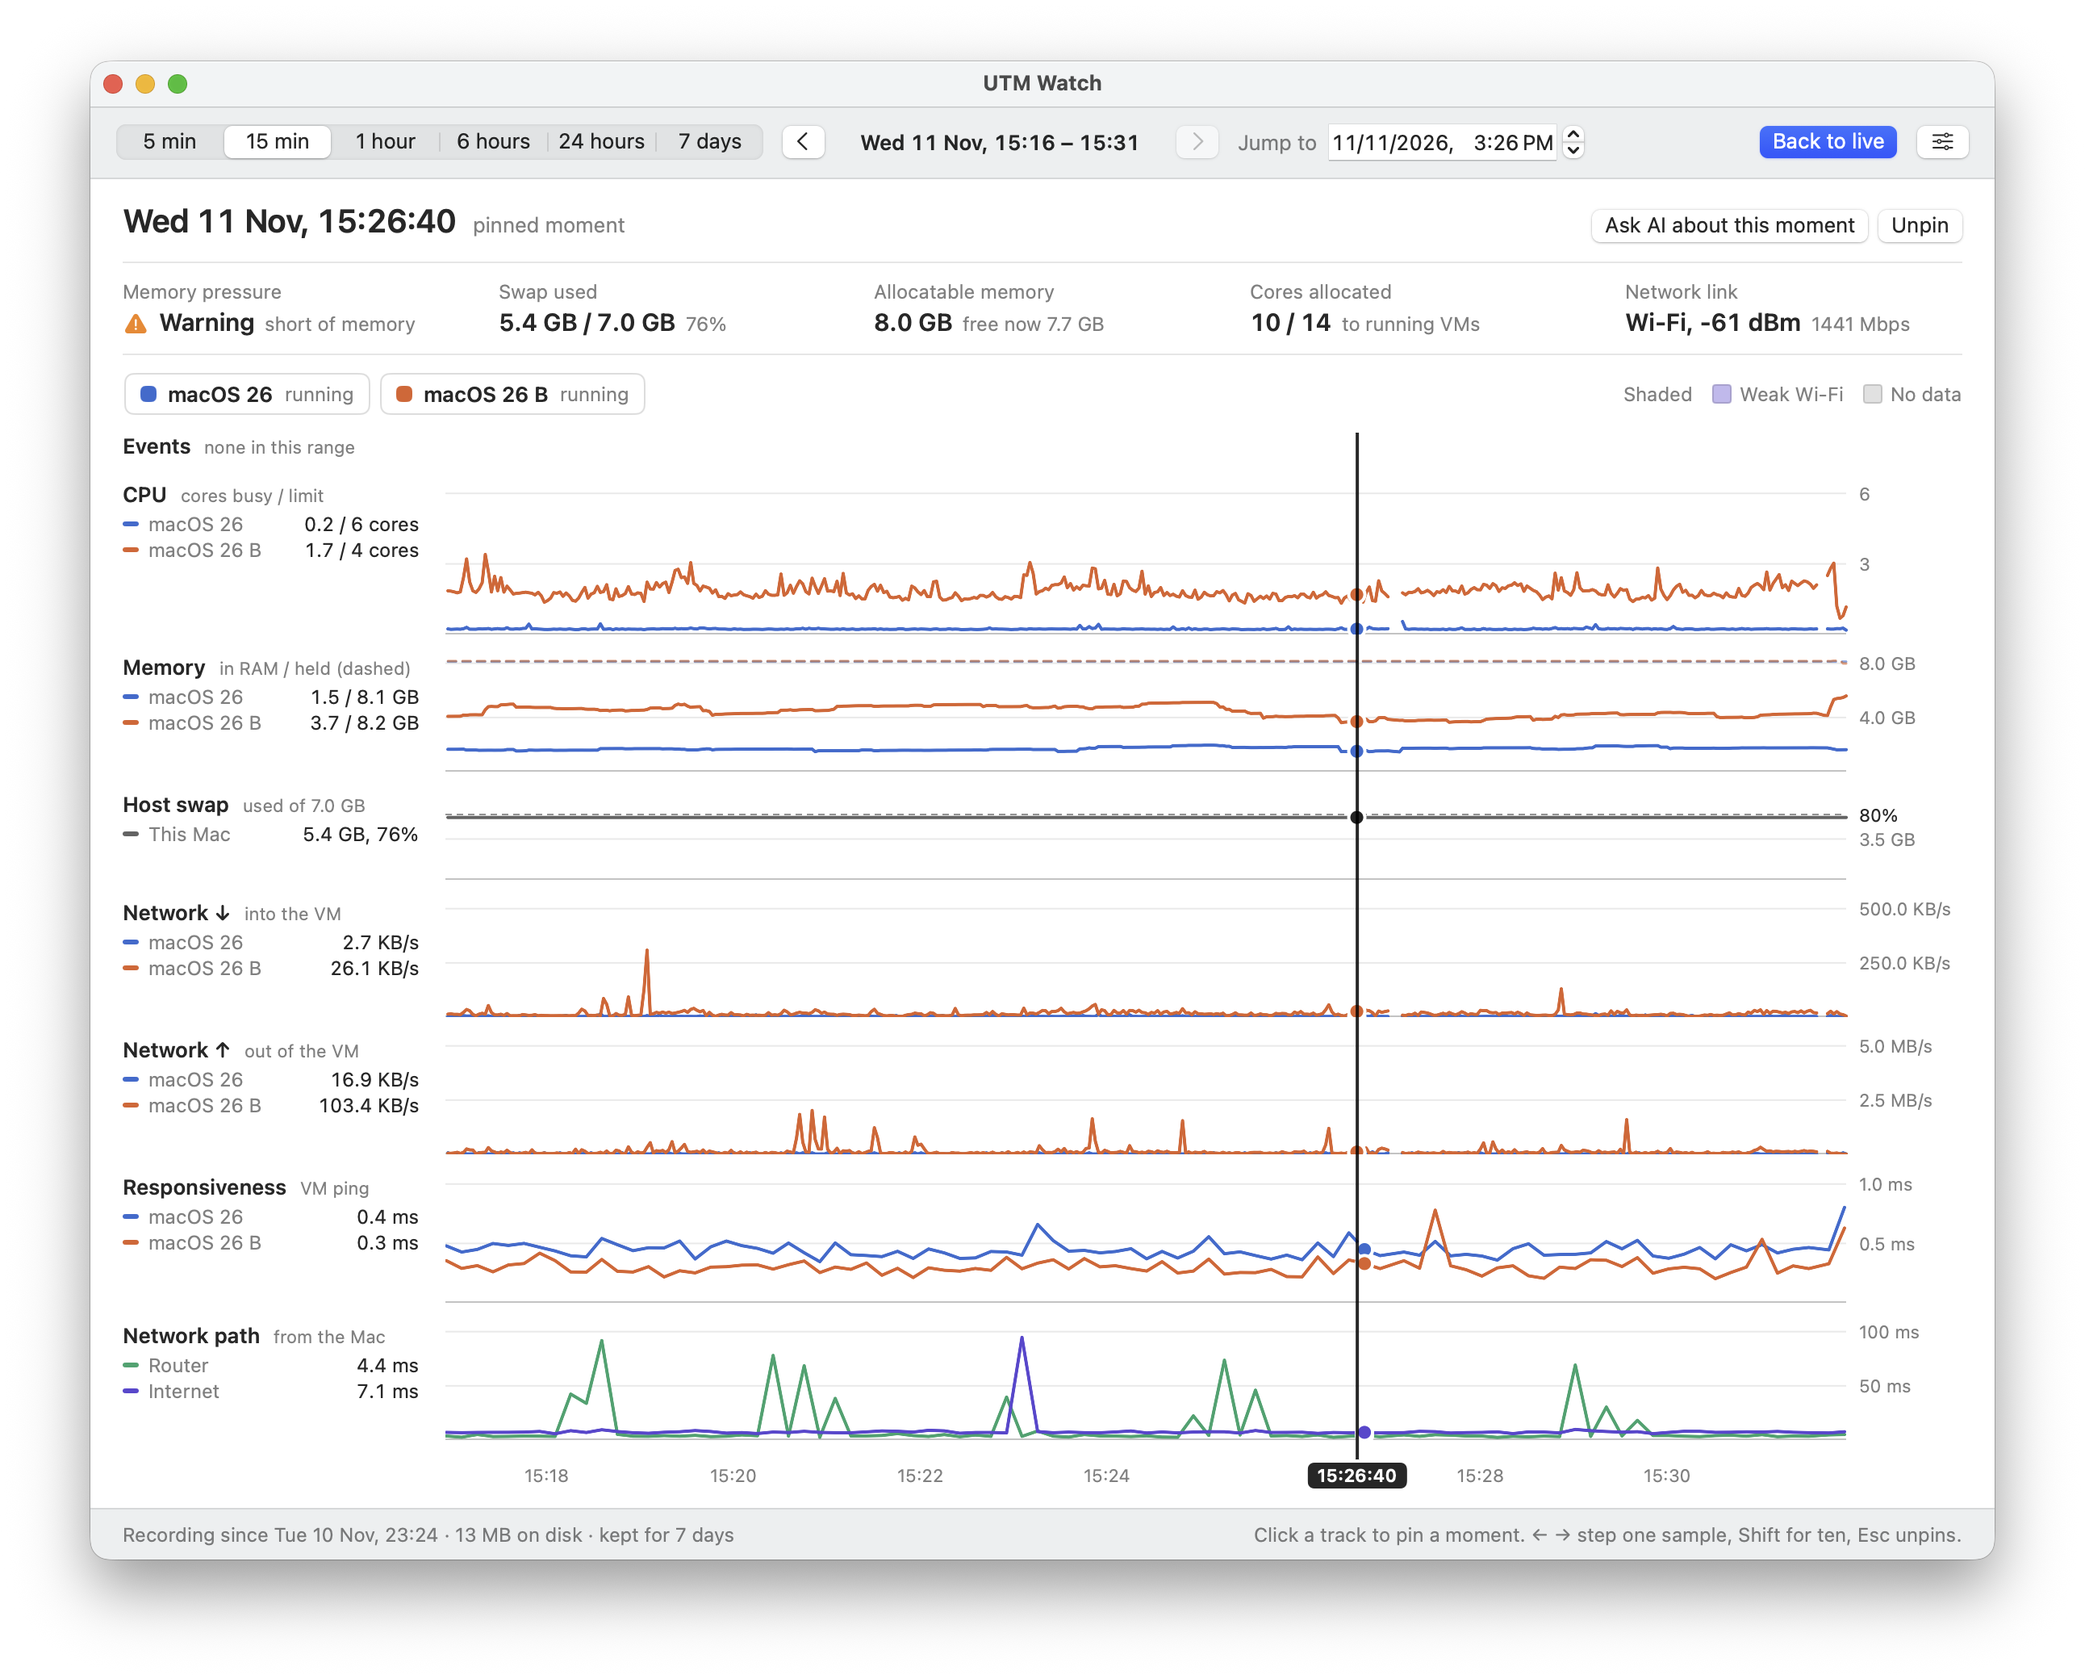
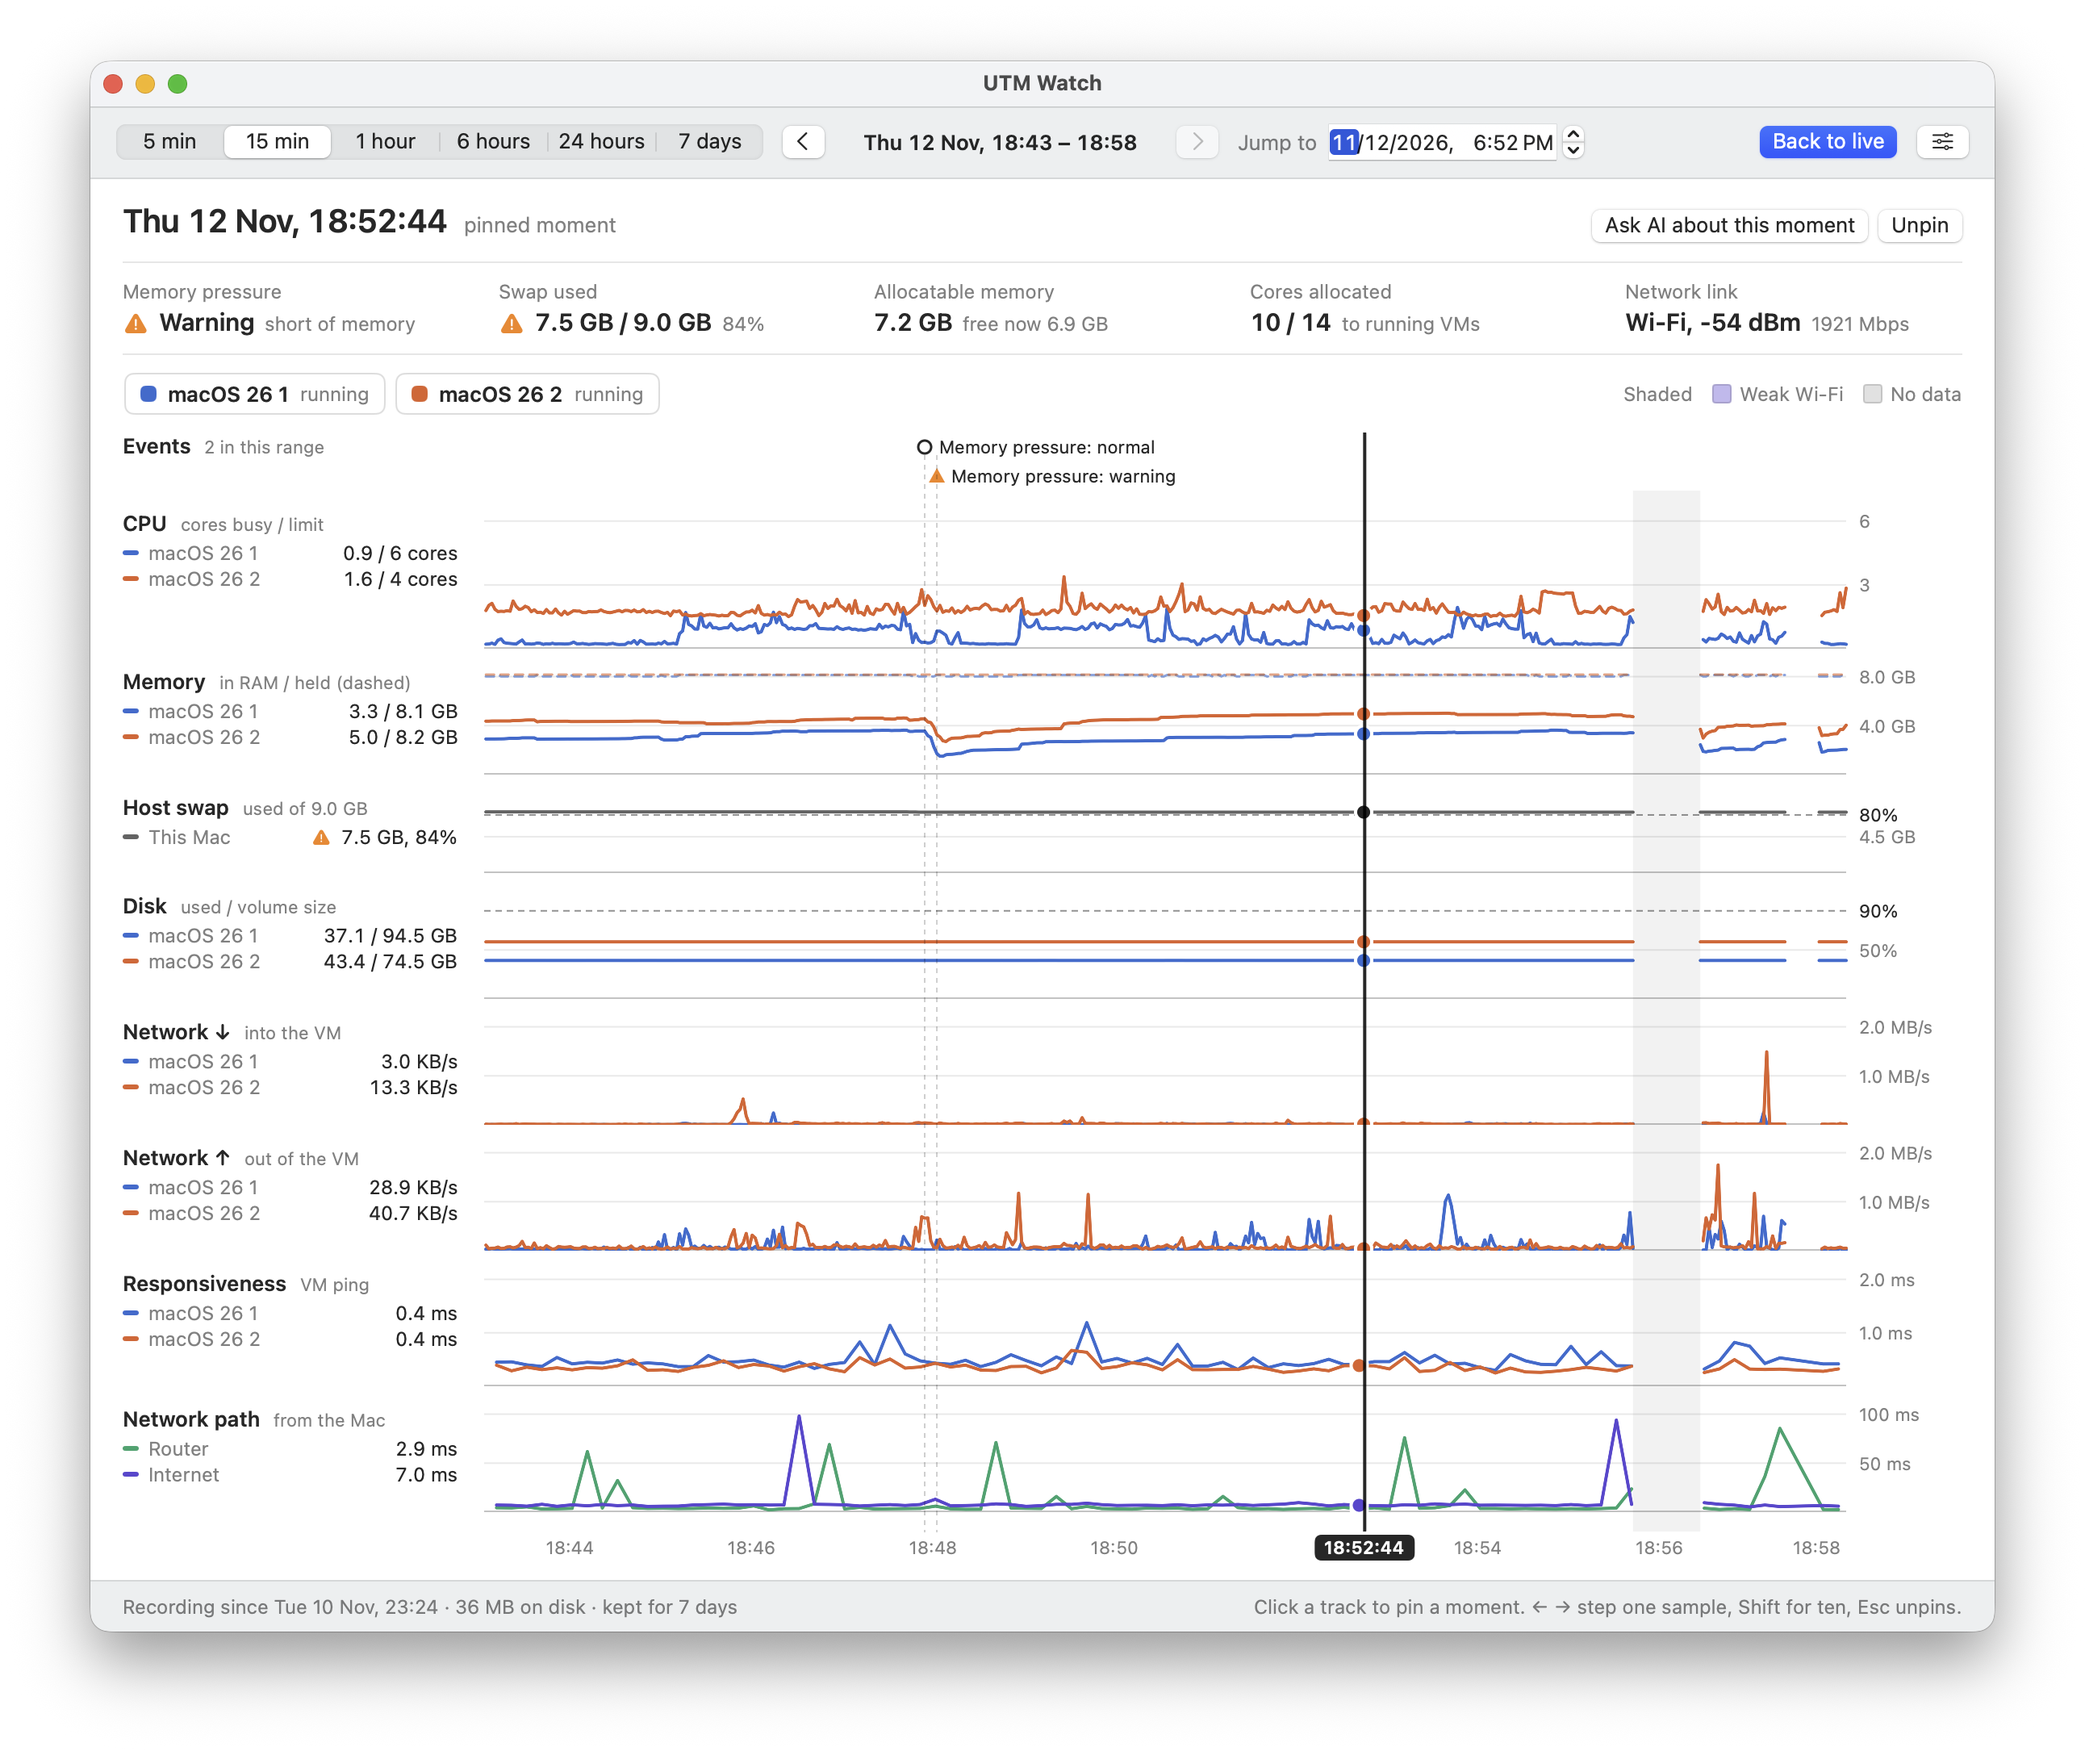
Retake the README pictures with disk usage
The detail window (pinned and live), the Fleet window and the hover
brief now show the Disk track, column and bar. The Fleet picture is the
real two-Mac fleet rather than the simulated one.

The track label column is 24 points wider: beside a disk reading such
as "43.4 / 74.5 GB" a VM's name was cut to "macOS 2…".

--snapshot-fleet-size <w> <h> sizes the Fleet window for its picture.

diff --git a/Sources/UTMWatchApp/AppDelegate.swift b/Sources/UTMWatchApp/AppDelegate.swift
@@ -253,13 +253,16 @@ final class AppDelegate: NSObject, NSApplicationDelegate, NSWindowDelegate {
     }
 
     /// Debug aid: `--snapshot-fleet <png>` opens the fleet window and writes a picture of it after `--snapshot-delay` seconds.
-    /// `--snapshot-fleet-host <name>` first drills into that Mac.
+    /// `--snapshot-fleet-host <name>` first drills into that Mac; `--snapshot-fleet-size <w> <h>` sizes the window.
     private func runDebugFleetSnapshot() {
         let args = CommandLine.arguments
         func value(_ flag: String) -> String? { args.firstIndex(of: flag).flatMap { $0 + 1 < args.count ? args[$0 + 1] : nil } }
         guard let path = value("--snapshot-fleet") else { return }
         let delay = value("--snapshot-delay").flatMap(Double.init) ?? 8
         showFleet()
+        if let k = args.firstIndex(of: "--snapshot-fleet-size"), k + 2 < args.count, let w = Double(args[k + 1]), let h = Double(args[k + 2]) {
+            fleetWindow?.setContentSize(NSSize(width: w, height: h))
+        }
         if let name = value("--snapshot-fleet-host") {
             DispatchQueue.main.asyncAfter(deadline: .now() + delay / 2) { [weak self] in
                 guard let self, let host = self.fleet.hosts.first(where: { $0.name == name }) else { return }

diff --git a/Sources/UTMWatchApp/TracksView.swift b/Sources/UTMWatchApp/TracksView.swift
@@ -31,7 +31,8 @@ struct TracksView: View {
     private func strength(_ key: String) -> Double { focus == nil || focus == key ? 1 : 0.16 }
 
     /// Title, unit and per-series readings.
-    private let labelWidth: CGFloat = 200
+    /// Wide enough for a VM's name beside the longest reading, a disk's "43.4 / 74.5 GB".
+    private let labelWidth: CGFloat = 224
     private let labelGap: CGFloat = 16
     /// Axis labels sit to the right of the plot so they never cover data.
     private let gutter: CGFloat = 72
